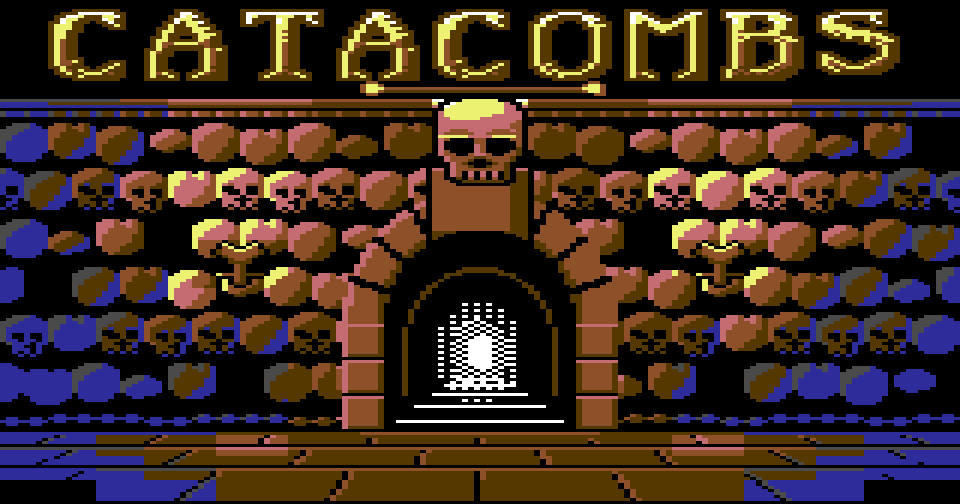
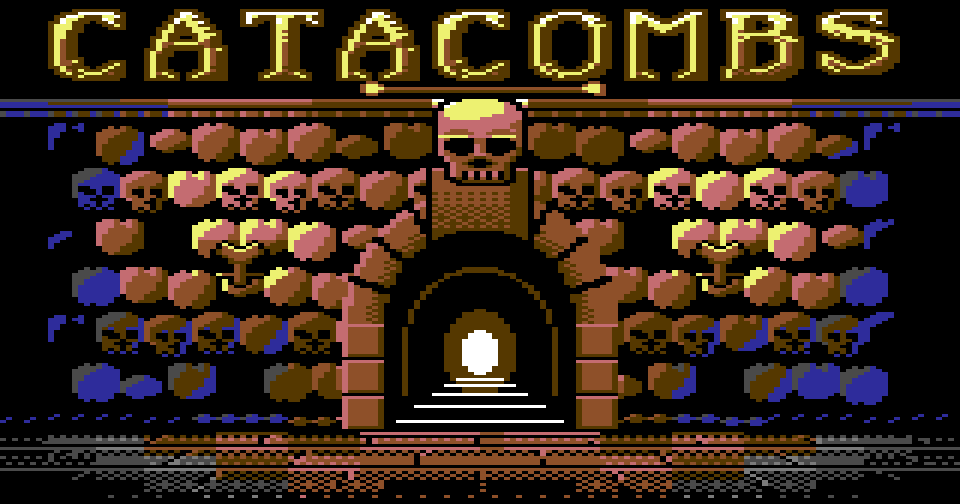
Title/flow round 3: shaded grey floor stones fading to black, darker wall edges with notched bone ends, chiselled keystone and shaded voussoirs, solid glow bands, 2x3 lantern; victory lights only the gate (torches out); death is a slow fade around a light-red body; DEATH scene shows empty hearts

diff --git a/Catacombs/art/title_art.py b/Catacombs/art/title_art.py
@@ -136,7 +136,7 @@ LEVELS = {
     4: (ORANGE, BROWN, BLUE),         # shadows go cold away from the flames
     3: (GREY1, BROWN, BLUE),
     2: (GREY1, BLUE, BLUE),
-    1: (BLUE, BLUE, BLUE),            # silhouettes
+    1: (BLUE, BLACK, BLACK),          # only the lit rims of the bones show
     0: (BLACK, BLACK, BLACK),
 }
 
@@ -158,7 +158,7 @@ BAYER = [[0, 8, 2, 10], [12, 4, 14, 6], [3, 11, 1, 9], [15, 7, 13, 5]]
 # ---------------------------------------------------------------------------
 # Wall tiles, 8x16 (16x16 hi-res pixels), lit from the top left
 # ---------------------------------------------------------------------------
-FEMUR = ["..aaab..",
+FEMUR = ["..a.ab..",
          ".aaaabb.",
          "aaaabbbc",
          "aaabbbbc",
@@ -170,7 +170,7 @@ FEMUR = ["..aaab..",
          "abbbbccc",
          ".bbbccc.",
          ".bbbccc.",
-         "..bccc..",
+         "..b.cc..",
          "........"]
 CONDYLE = [".aab.ab.",
            "aaabaabc",
@@ -275,7 +275,9 @@ def wall():
         for t in range(-1, COLS // 2 + 1):
             c = t * 2 + shift           # the tile's first cell
             name = seq[(t + n * 3) % len(seq)]
-            lv = light(c * 4 + 4, r * 8 + 8) + (rnd('l', t, n) - 0.5) * 0.8 - n * 0.12
+            lv = light(c * 4 + 4, r * 8 + 8) - n * 0.12
+            edge = min(c + 1, COLS - 1 - c)     # cells from the nearer screen edge
+            lv = min(lv, (edge - 1) * 0.7) if edge < 5 else max(lv, 2.0)
             set_pal(c, r, c + 1, r + 1, level_pal(lv))
             if TILES[name] is not None:
                 stamp(c * 4, r * 8, TILES[name])
@@ -294,25 +296,40 @@ def cornice():
         pal[4][c] = level_pal(max(2.0, light(c * 4 + 2, 48) - 0.5))
 
 
+FLOOR_LEVELS = {                      # the floor's own ramp: grey on black, warm in the pools
+    5: (LRED, ORANGE, BROWN),
+    4: (ORANGE, BROWN, BLACK),
+    3: (GREY2, GREY1, BLACK),
+    2: (GREY1, GREY1, BLACK),
+    1: (GREY1, BLACK, BLACK),
+    0: (BLACK, BLACK, BLACK),
+}
+
+
 def floor():
     """Rows 18-20: flagstones in perspective, joints converging on the gate,
-    warm pools under the sconces, black towards the viewer."""
+    warm pools under the sconces, grey on black elsewhere. Each stone is
+    shaded inside: dark on its far part, dithered towards its lit front edge;
+    the front course dithers away into black."""
     vx, vy = CX, 96.0
     rows_y = (144, 149, 156, 168)
     for r in range(18, ROWS):
         for c in range(COLS):
             x, y = c * 4 + 2, r * 8 + 4
-            pool = max(math.exp(-((x - tx) * 2.0) ** 2 / 3000.0) for tx in TORCH_X)
+            pool = max(math.exp(-((x - tx) * 2.0) ** 2 / 2600.0) for tx in TORCH_X)
             gate = math.exp(-((x - CX) * 2.0) ** 2 / 2500.0)
-            lv = 1.6 + 3.4 * pool + 1.2 * gate - (r - 18) * 1.0
-            pal[r][c] = level_pal(max(1.0 if r < 20 else 0.0, lv))
+            lv = 1.2 + 3.8 * pool + 1.4 * gate - (r - 18) * 0.9
+            pal[r][c] = FLOOR_LEVELS[max(1 if r < 20 else 0, min(5, int(lv)))]
     for y in range(FLOOR_Y, H):
         for x in range(W):
             band = next(i for i in range(3) if y < rows_y[i + 1])
-            if y == rows_y[band]:
-                v = 1 if y != 144 else 3                 # lit front edge of each course
+            y0, y1 = rows_y[band], rows_y[band + 1]
+            p_ = (y - y0) / float(y1 - y0)       # 0 at the far (top) edge, 1 at the front
+            if y == y0:
+                v = 1 if y != 144 else 3                 # lit front edge of the course behind
+            elif y == y1 - 1:
+                v = 0                                     # joint under each course
             else:
-                # radial joints: the stone's position along its course
                 u = (x + 0.5 - vx) * (168 - vy) / (y - vy)
                 u = u / 26.0 + (0.5 if band & 1 else 0.0)
                 f = u - math.floor(u)
@@ -321,10 +338,14 @@ def floor():
                     v = 0
                 elif f < spread * 2.2:
                     v = 1
+                elif p_ < 0.34:
+                    v = 2 if (x + y) & 1 else 0          # the far third: dark
+                elif p_ < 0.67:
+                    v = 2 if ((x + y) & 1 or (y & 1)) else 1
                 else:
-                    v = 2
-                if y == rows_y[band + 1] - 1:
-                    v = 0                                 # joint under each course
+                    v = 1 if (x + y) & 1 else 2           # towards the lit front edge
+                if band == 2 and v and BAYER[y & 3][x & 3] < (y - 158) * 2:
+                    v = 0                                 # the front course melts into black
             put(x, y, v)
     # the threshold in front of the gate
     for y in (144, 145):
@@ -362,12 +383,10 @@ def void(x, y):
         if y == ty and abs(dx) < half:
             return 3                                      # a tread's lit edge
     d = math.hypot(dx * 0.8, (y - 117) * 0.7)
-    if d < 4:
+    if d < 5:
         return 3
-    if d < 8:
-        return 3 if (x + y) & 1 else 0
-    if d < 12:
-        return 3 if (x & 1) and (y & 1) else 0
+    if d < 10:
+        return 2
     return 0
 
 
@@ -390,8 +409,13 @@ def gate():
                         r_ = 0 if abs(dx) >= 16 else 1
                     elif y >= 77:
                         r_ = 3
+                    elif (y in (62, 63) and 4 < x - 64 < 8) or (y in (70, 71) and 22 < x - 64 < 26):
+                        r_ = 3                                  # chisel marks
+                    elif dx >= 10:
+                        r_ = 3
                     else:
-                        r_ = 2 if dx < 10 else 3
+                        # lit at the top, dithered into shadow towards the arch
+                        r_ = 3 if (y - 57) > 4 + BAYER[y & 3][x & 3] * 1.2 else 2
                 else:
                     ang = math.degrees(math.atan2(-dy, dx))
                     seg = ang / 20.0
@@ -402,6 +426,8 @@ def gate():
                         r_ = 1 if dx < 12 else 2
                     elif u < R_IN + 2.5:
                         r_ = 3
+                    elif u < R_IN + 5.5:
+                        r_ = 3 if (x + y) & 1 else 2            # darker towards the inner end
                     else:
                         r_ = 2
             else:
@@ -648,8 +674,8 @@ SPRITE_FRAMES = [
      "..xooyyoox..", "...xoooox...", "............"],
     # 3: the hooded figure, a black silhouette rimmed by the glow, lantern out
     ["............", ".....o......", "....oxx.....", "...oxxxx....", "...oxxxx....", "...oxx.x....",
-     "..oxxxxxx...", ".oxxxxxxxx..", ".oxxxxxxxxx.", ".oxxxxxxx.x.", ".oxxxxxxx.o.", ".oxxxxxxxoyo",
-     ".oxxxxxxx.y.", ".oxxxxxxx...", ".oxxxxxxxx..", "oxxxxxxxxx..", "oxxxxxxxxx..", "oxxxxxxxxxx.",
+     "..oxxxxxx...", ".oxxxxxxxx..", ".oxxxxxxxxx.", ".oxxxxxxx.x.", ".oxxxxxxx.yy", ".oxxxxxxxoyy",
+     ".oxxxxxxx.yy", ".oxxxxxxx...", ".oxxxxxxxx..", "oxxxxxxxxx..", "oxxxxxxxxx..", "oxxxxxxxxxx.",
      "oxxxxxxxxxx.", "oxxxxxxxxxxx", "............"],
     # 4: eyes for the keystone skull's sockets
     ["............", "............", "............", "............", "............", "............",
@@ -658,8 +684,8 @@ SPRITE_FRAMES = [
      "............", "............", "............"],
     # 5: the figure again, the lantern swung
     ["............", ".....o......", "....oxx.....", "...oxxxx....", "...oxxxx....", "...oxx.x....",
-     "..oxxxxxx...", ".oxxxxxxxx..", ".oxxxxxxxxx.", ".oxxxxxxx.x.", ".oxxxxxxx..x", ".oxxxxxxx..o",
-     ".oxxxxxxx.oyo", ".oxxxxxxx..y", ".oxxxxxxxx..", "oxxxxxxxxx..", "oxxxxxxxxx..", "oxxxxxxxxxx.",
+     "..oxxxxxx...", ".oxxxxxxxx..", ".oxxxxxxxxx.", ".oxxxxxxx.x.", ".oxxxxxxx..x", ".oxxxxxxx.yy",
+     ".oxxxxxxx.yy", ".oxxxxxxx.yy", ".oxxxxxxxx..", "oxxxxxxxxx..", "oxxxxxxxxx..", "oxxxxxxxxxx.",
      "oxxxxxxxxxx.", "oxxxxxxxxxxx", "............"],
     # 6: embers (own colour only: the code cools them as they rise)
     ["............", ".....x......", "............", "............", "........x...", "............",

diff --git a/Catacombs/TitleScreen.cs b/Catacombs/TitleScreen.cs
@@ -70,7 +70,8 @@ static class TitleScreen
     static uint fire_;                  // frames fire has been held; 255 = not yet released
     static uint info_;
     static uint column_;
-    static ulong inner_, outer_, table_;
+    static uint sweep_;                 // columns either side the light spreads over
+    static ulong inner_, table_;
 #if SCENE
     // Scene builds: leave the screen by itself after this many video frames
     // (0 = stay). Set before Show().
@@ -93,17 +94,19 @@ static class TitleScreen
         C64.Screen.SetCellColors(0, Rows, 40, 4, 0, Colors.Black);
         C64.Screen.DrawImage(0, 0, C64Address.FromLabel("img_Title"));
         inner_ = C64Address.FromLabel("pal_Bright");
-        outer_ = inner_;
+        sweep_ = 20;
         if (kind == GameOver)
         {
             C64.Screen.RemapCellColors(0, 0, 40, Rows, C64Address.FromLabel("pal_GoDim"));
             inner_ = C64Address.FromLabel("pal_GoBright");
-            outer_ = inner_;
         }
         else
             C64.Screen.RemapCellColors(0, 0, 40, Rows, C64Address.FromLabel("pal_Dim"));
         if (kind == Victory)
+        {
             inner_ = C64Address.FromLabel("pal_Dawn");
+            sweep_ = 8;
+        }
         C64.Screen.SetSplit(Rows, ScreenMode.Bitmap);
 
         // Sprites: positions, colours (and a black border and background),
@@ -115,21 +118,19 @@ static class TitleScreen
         C64.CopyMemory(C64Address.FromLabel("ttl_PtrDst"), C64Address.FromLabel("ttl_PtrSrc"), 8);
         C64.Screen.EndUpdate();
 
-        // Light spreads from the gate outwards (the gate's own 16 columns
-        // get the victory light).
-        for (column_ = 0; column_ < 20; column_++)
+        // Light spreads from the gate outwards. On the victory screen only
+        // the gate's own 16 columns fill with daylight: the burnt-out torches
+        // leave the rest of the wall dim.
+        for (column_ = 0; column_ < sweep_; column_++)
         {
             C64.Screen.WaitForVBlank();
             C64.Screen.WaitForVBlank();
-            table_ = outer_;
-            if (column_ < 8)
-                table_ = inner_;
-            C64.Screen.RemapCellColors(19 - column_, 0, 1, Rows, table_);
-            C64.Screen.RemapCellColors(20 + column_, 0, 1, Rows, table_);
+            C64.Screen.RemapCellColors(19 - column_, 0, 1, Rows, inner_);
+            C64.Screen.RemapCellColors(20 + column_, 0, 1, Rows, inner_);
         }
 
         // on: title = flames, embers, figure; game over = embers, eyes;
-        // victory = the title's plus the relic.
+        // victory = the figure and the relic.
         if (kind == Title)
         {
             C64.FillMemory(SpriteEnable, 0x5E, 1);
@@ -144,7 +145,9 @@ static class TitleScreen
         }
         else
         {
-            C64.FillMemory(SpriteEnable, 0x5F, 1);
+            C64.FillMemory(SpriteEnable, 0x41, 1);   // the torches have burnt out
+            C64.Screen.RemapCellColors(0, 0, 12, 4, C64Address.FromLabel("pal_Bright"));   // the logo in full gold
+            C64.Screen.RemapCellColors(28, 0, 12, 4, C64Address.FromLabel("pal_Bright"));
             C64.Screen.DrawText(7, PromptRow, "YOU ESCAPED THE CATACOMBS", 0x70);
             C64.Screen.DrawText(9, InfoRow, "ALL 3 RELICS RECOVERED", 0xF0);
         }
@@ -155,7 +158,7 @@ static class TitleScreen
         while (Animate())
         {
         }
-        FadeOut();
+        FadeOut(2);
     }
 
     // One video frame of the screen's life. False when it is time to leave.
@@ -164,7 +167,7 @@ static class TitleScreen
         C64.Screen.WaitForVBlank();
         tick_++;
 
-        if (kind_ != GameOver)
+        if (kind_ == Title)
         {
             // Torch light: the cells hugging a flame's bowl drop a step and come back, at random intervals.
             // First thing in the frame, ahead of the beam.
@@ -245,16 +248,18 @@ static class TitleScreen
     // (the game keeps border and background black). Leaves the display blanked, with an
     // empty bitmap, no split and no sprites: whatever comes next draws
     // unseen and shows itself.
-    public static void FadeOut()
+    // `frames` video frames per step: 2 between screens, 20 for the death.
+    // Sprites stay up until the screen is black.
+    public static void FadeOut(uint frames)
     {
-        C64.FillMemory(SpriteEnable, 0, 1);
         table_ = C64Address.FromLabel("pal_Darken");
         for (column_ = 0; column_ < 5; column_++)
         {
-            C64.Screen.WaitForVBlank();
-            C64.Screen.WaitForVBlank();
+            for (tick_ = 0; tick_ < frames; tick_++)
+                C64.Screen.WaitForVBlank();
             C64.Screen.RemapCellColors(0, 0, 40, 25, table_);
         }
+        C64.FillMemory(SpriteEnable, 0, 1);
         C64.Screen.BeginUpdate();
         C64.Screen.SetBorderColor(Colors.Black);
         C64.Screen.SetBackgroundColor(Colors.Black);

diff --git a/Catacombs/Program.cs b/Catacombs/Program.cs
@@ -120,6 +120,8 @@ class Program
         Combat();
 #endif
 #if SCENE_DEATH
+        playerHp_ = 0;
+        Hud.SetHealth(0);
         PlayerDied(); // the death in the room, then game over and the title (GameFlow.cs)
 #endif
 #if SCENE_ENCOUNTER
@@ -450,17 +452,16 @@ class Program
         return true;
     }
 
-    // The player falls in the room, by the guardian that killed them, and
-    // lies there for two seconds; then the run is over (the game over screen
-    // fades in from this). Nothing is reset here: the next run's Play() sets
+    // The player falls in the room, by the guardian that killed them, and the
+    // room slowly darkens around the body; then the run is over (the game
+    // over screen fades in from the black). Nothing is reset here: the next run's Play() sets
     // everything up again.
     static void PlayerDied()
     {
         Audio.PlayerDied();
         PlayerSprite.Fall();
         SpriteStage.Update();
-        for (uint i = 0; i < 100; i++)
-            C64.Screen.WaitForVBlank();
+        TitleScreen.FadeOut(20); // the room dies around the body, two seconds
         GameFlow.Lose(); // ends Play(); Main shows the game over screen, then the title
     }
 }

diff --git a/Catacombs/PlayerSprite.cs b/Catacombs/PlayerSprite.cs
@@ -93,7 +93,7 @@ static class PlayerSprite
         {
             SpriteStage.Count[0] = 1;
             SpriteStage.Parts[Light + SpriteStage.Frame] = SpriteStage.Mc + Frame.Fallen;
-            SpriteStage.Parts[Light + SpriteStage.Color] = Cloak;
+            SpriteStage.Parts[Light + SpriteStage.Color] = SpriteStage.Multi | (uint)Colors.LightRed; // the body stands out as the room darkens
             SpriteStage.Parts[Light + SpriteStage.Dy] = 36;
             return;
         }

diff --git a/Catacombs/GameFlow.cs b/Catacombs/GameFlow.cs
@@ -86,7 +86,7 @@ static class GameFlow
         if (runs_ <= 200)
             return;
 #endif
-        TitleScreen.FadeOut();
+        TitleScreen.FadeOut(2);
 #if SCENE_FLOW
         TitleScreen.Timer = 300;
 #endif
